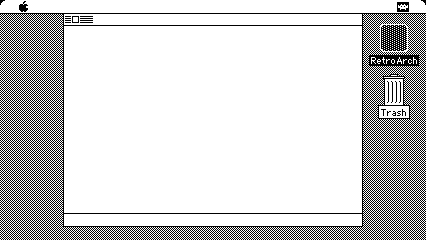
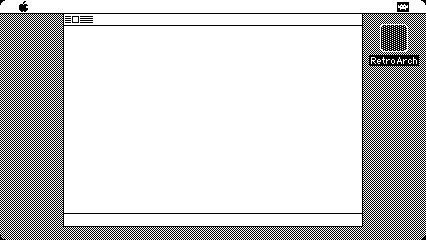
Added missing rounded bottom corners to Cupertino 7. Removed trash bin from Cupertino 7 to reduce reliance on non-original artwork.

Changed region(s): [[0.885, 0.2917, 0.9765, 0.4958], [0.9765, 0.9917, 1.0, 1.0], [0.0, 0.9917, 0.0305, 1.0]]

diff --git a/README.md b/README.md
@@ -1,5 +1,5 @@
 # RGUI Themes for RetroArch
-A series of custom themes with original artwork for recent versions of RetroArch's RGUI menu driver. Each theme supports text shadows and comes in centered and full-width variants, the former of which are shown below. While particle animations may look alright, these themes were not designed with them in mind.
+A series of custom themes for recent versions of RetroArch's RGUI menu driver that combine classic influences with original artwork. Each theme supports text shadows and comes in centered and full-width variants, the former of which are shown below. While particle animations may look alright, these themes were not designed with them in mind.
 
 ## How to Use
 1. Clone this repo or download it as a .ZIP archive.

diff --git a/CHANGES.md b/CHANGES.md
@@ -2,6 +2,8 @@
 
 ## 2020-05-23
 <ul>
+	<li>Removed trash bin from Cupertino 7 to reduce reliance on non-original artwork.</li>
+	<li>Added missing rounded bottom corners to Cupertino 7.</li>
 	<li>Added the Cupertino 7 theme.</li>
 </ul>
 
